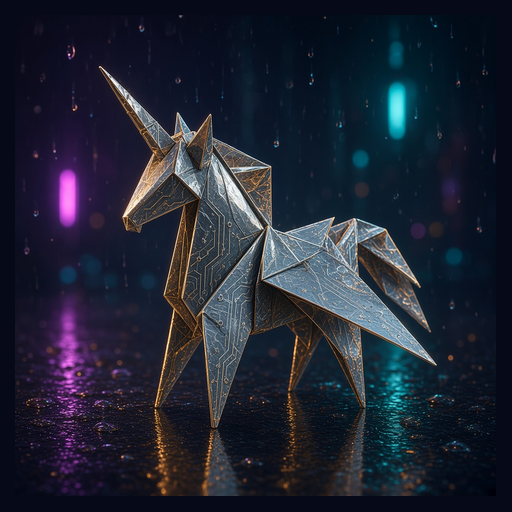
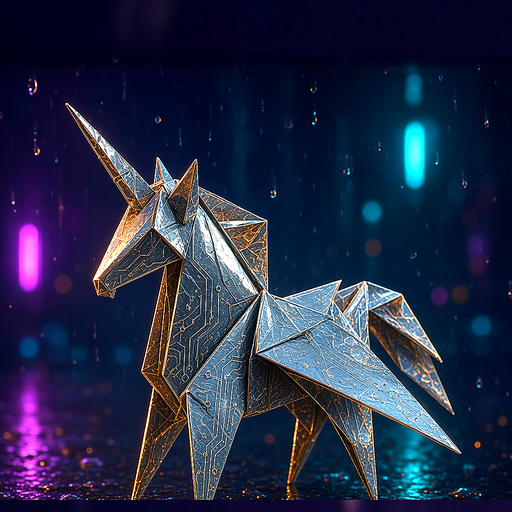
Keep the unicorn clear when small, and show a big picture on name cards.
The washed-out badge was the artwork: a dark full-body figure in a night scene. The same files are replaced with a tighter, higher-contrast unicorn. Name cards now show that picture large, including hidden pictures and initials.

diff --git a/web/clubhouse.js b/web/clubhouse.js
@@ -523,6 +523,18 @@ function profileAvatar(name,id,picture,size=128) {
   const tone=Array.from(id||name||'').reduce((value,ch)=>(value+ch.codePointAt(0))%6,0);
   const avatar=el('span',initials.toLocaleUpperCase(),'avatar tone-'+tone+(initials?'':' avatar-unknown'));avatar.setAttribute('aria-hidden','true');return avatar;
 }
+// The name card uses the 256 picture. High-density screens pick it over the 128.
+function nameCardPortrait(name,id,picture){
+  const portrait=profileAvatar(name,id,picture,256);
+  portrait.classList.add('friend-portrait');
+  if(portrait.tagName==='IMG'){
+    const base='/assets/avatars/'+encodeURIComponent(picture)+'/';
+    portrait.src=base+'256.webp';
+    portrait.srcset=base+'128.webp 128w, '+base+'256.webp 256w';
+    portrait.sizes='112px';
+  }
+  return portrait;
+}
 let presenceSignature='',presenceLayoutKey='',presenceSlots=0;
 let chatPresence=null,chatPresenceOrder=[],chatReordering=false,presenceMetrics;
 const presenceItems=new WeakMap(),presenceMotions=new Map(),presenceGhosts=new Set();
@@ -675,6 +687,7 @@ function renderPresence() {
     if(overflow)trigger.textContent='+'+persons.length;
     else {item.dataset.playerId=key;item.dataset.status=persons[0].status||'active';trigger.title=[persons[0].name+' · '+presenceLabel(persons[0].status),...persons[0].playing].join('\n');trigger.append(profileAvatar(persons[0].name,key,persons[0].avatar));}
     for(const person of persons){
+      panel.append(nameCardPortrait(person.name,person.id,person.avatar));
       panel.append(el('p',person.name,'friend-name'));
       const targets=me.inspecting?[]:(person.join_targets||[]);
       panel.append(el('p',presenceLabel(person.status),'quiet friend-status'));

diff --git a/web/clubhouse.css b/web/clubhouse.css
@@ -804,8 +804,10 @@ button.feed-row:hover { border-color: var(--accent); }
 .friend-menu > summary { display: grid; place-items: center; width: 34px; height: 34px; min-height: 34px; padding: 0; border: 0; border-radius: 50%; list-style: none; background: transparent; color: inherit; cursor: pointer; }
 .friend-menu > summary::-webkit-details-marker { display: none; }
 .presence-person:has(.friend-menu[open]) { z-index: 21; }
-.friend-name { margin: 10px 12px 2px; font-weight: 600; overflow-wrap: anywhere; }
+.friend-actions .friend-portrait { display: grid; width: 112px; height: 112px; margin: 6px auto 0; font-size: 40px; border-color: var(--line); }
+.friend-name { margin: 8px 12px 2px; font-weight: 600; overflow-wrap: anywhere; text-align: center; }
 .friend-status { margin: 4px 12px 12px; font-size: 13px; }
+.friend-actions .friend-status { text-align: center; }
 
 /* Reactions sit 4px inside the left edge, with 20% below the card.
    The 44px hit area extends upward so the visible overhang stays small. */

diff --git a/web/themes/field-notes.css b/web/themes/field-notes.css
@@ -330,6 +330,7 @@
 }
 [data-theme="field-notes"] .feed-row small,
 [data-theme="field-notes"] .feed-row p { color: var(--pencil); }
+[data-theme="field-notes"] .friend-actions .friend-portrait { border: 2px solid var(--ink); box-shadow: none; background: var(--field); }
 [data-theme="field-notes"] .account-menu label { color: var(--ink); font-size: 15px; font-weight: 700; }
 [data-theme="field-notes"] .account-menu > button,
 [data-theme="field-notes"] .account-menu > a { color: var(--ink); }

diff --git a/web/themes/funny-pages.css b/web/themes/funny-pages.css
@@ -552,6 +552,7 @@
   box-shadow: 6px 6px 0 var(--ink-line);
 }
 [data-theme="funny-pages"] .account-menu { z-index: 40; }
+[data-theme="funny-pages"] .friend-actions .friend-portrait { border: 3px solid var(--ink-line); box-shadow: 3px 3px 0 var(--ink-line); }
 [data-theme="funny-pages"] #activity h2 { font-size: 26px; }
 [data-theme="funny-pages"] .feed-row,
 [data-theme="funny-pages"] .feed-entry:nth-child(3n+2) > .feed-row,

diff --git a/web/themes/cartridge-club.css b/web/themes/cartridge-club.css
@@ -412,6 +412,7 @@
   background: #ffe14a;
   color: #2a1248;
 }
+[data-theme="cartridge-club"] .friend-actions .friend-portrait { border: 3px solid #120818; box-shadow: 0 0 0 3px #ffe14a; }
 [data-theme="cartridge-club"] .account-menu label { color: #fff6e4; }
 [data-theme="cartridge-club"] .account-menu select {
   border: 3px solid #120818;

diff --git a/assets/avatars/README.md b/assets/avatars/README.md
@@ -92,7 +92,8 @@ Five more pictures were added on 2026-11-20: Tinker Goblin, Clockwork Owl,
 Circuit Crane, Signal Kettle, and Origami Unicorn. The first four are ordinary
 picker choices. Origami Unicorn is marked hidden in `src/portal/avatars.rs`, so
 the picker catalog omits it and a member cannot select it. An operator can still
-assign it, and the picture renders for anyone who already has it. Its source is
-scaled slightly and kept centered so the horn tip stays inside the circular CSS
-crop. All five use opaque 512px PNG sources and the standard lossy 128px and
+assign it, and the picture renders for anyone who already has it. The unicorn
+is framed tighter than the first export, with stronger contrast, so the horn
+and body stay readable in the small circular badges. The horn tip stays inside
+that crop. All five use opaque 512px PNG sources and the standard lossy 128px and
 256px WebP exports.
